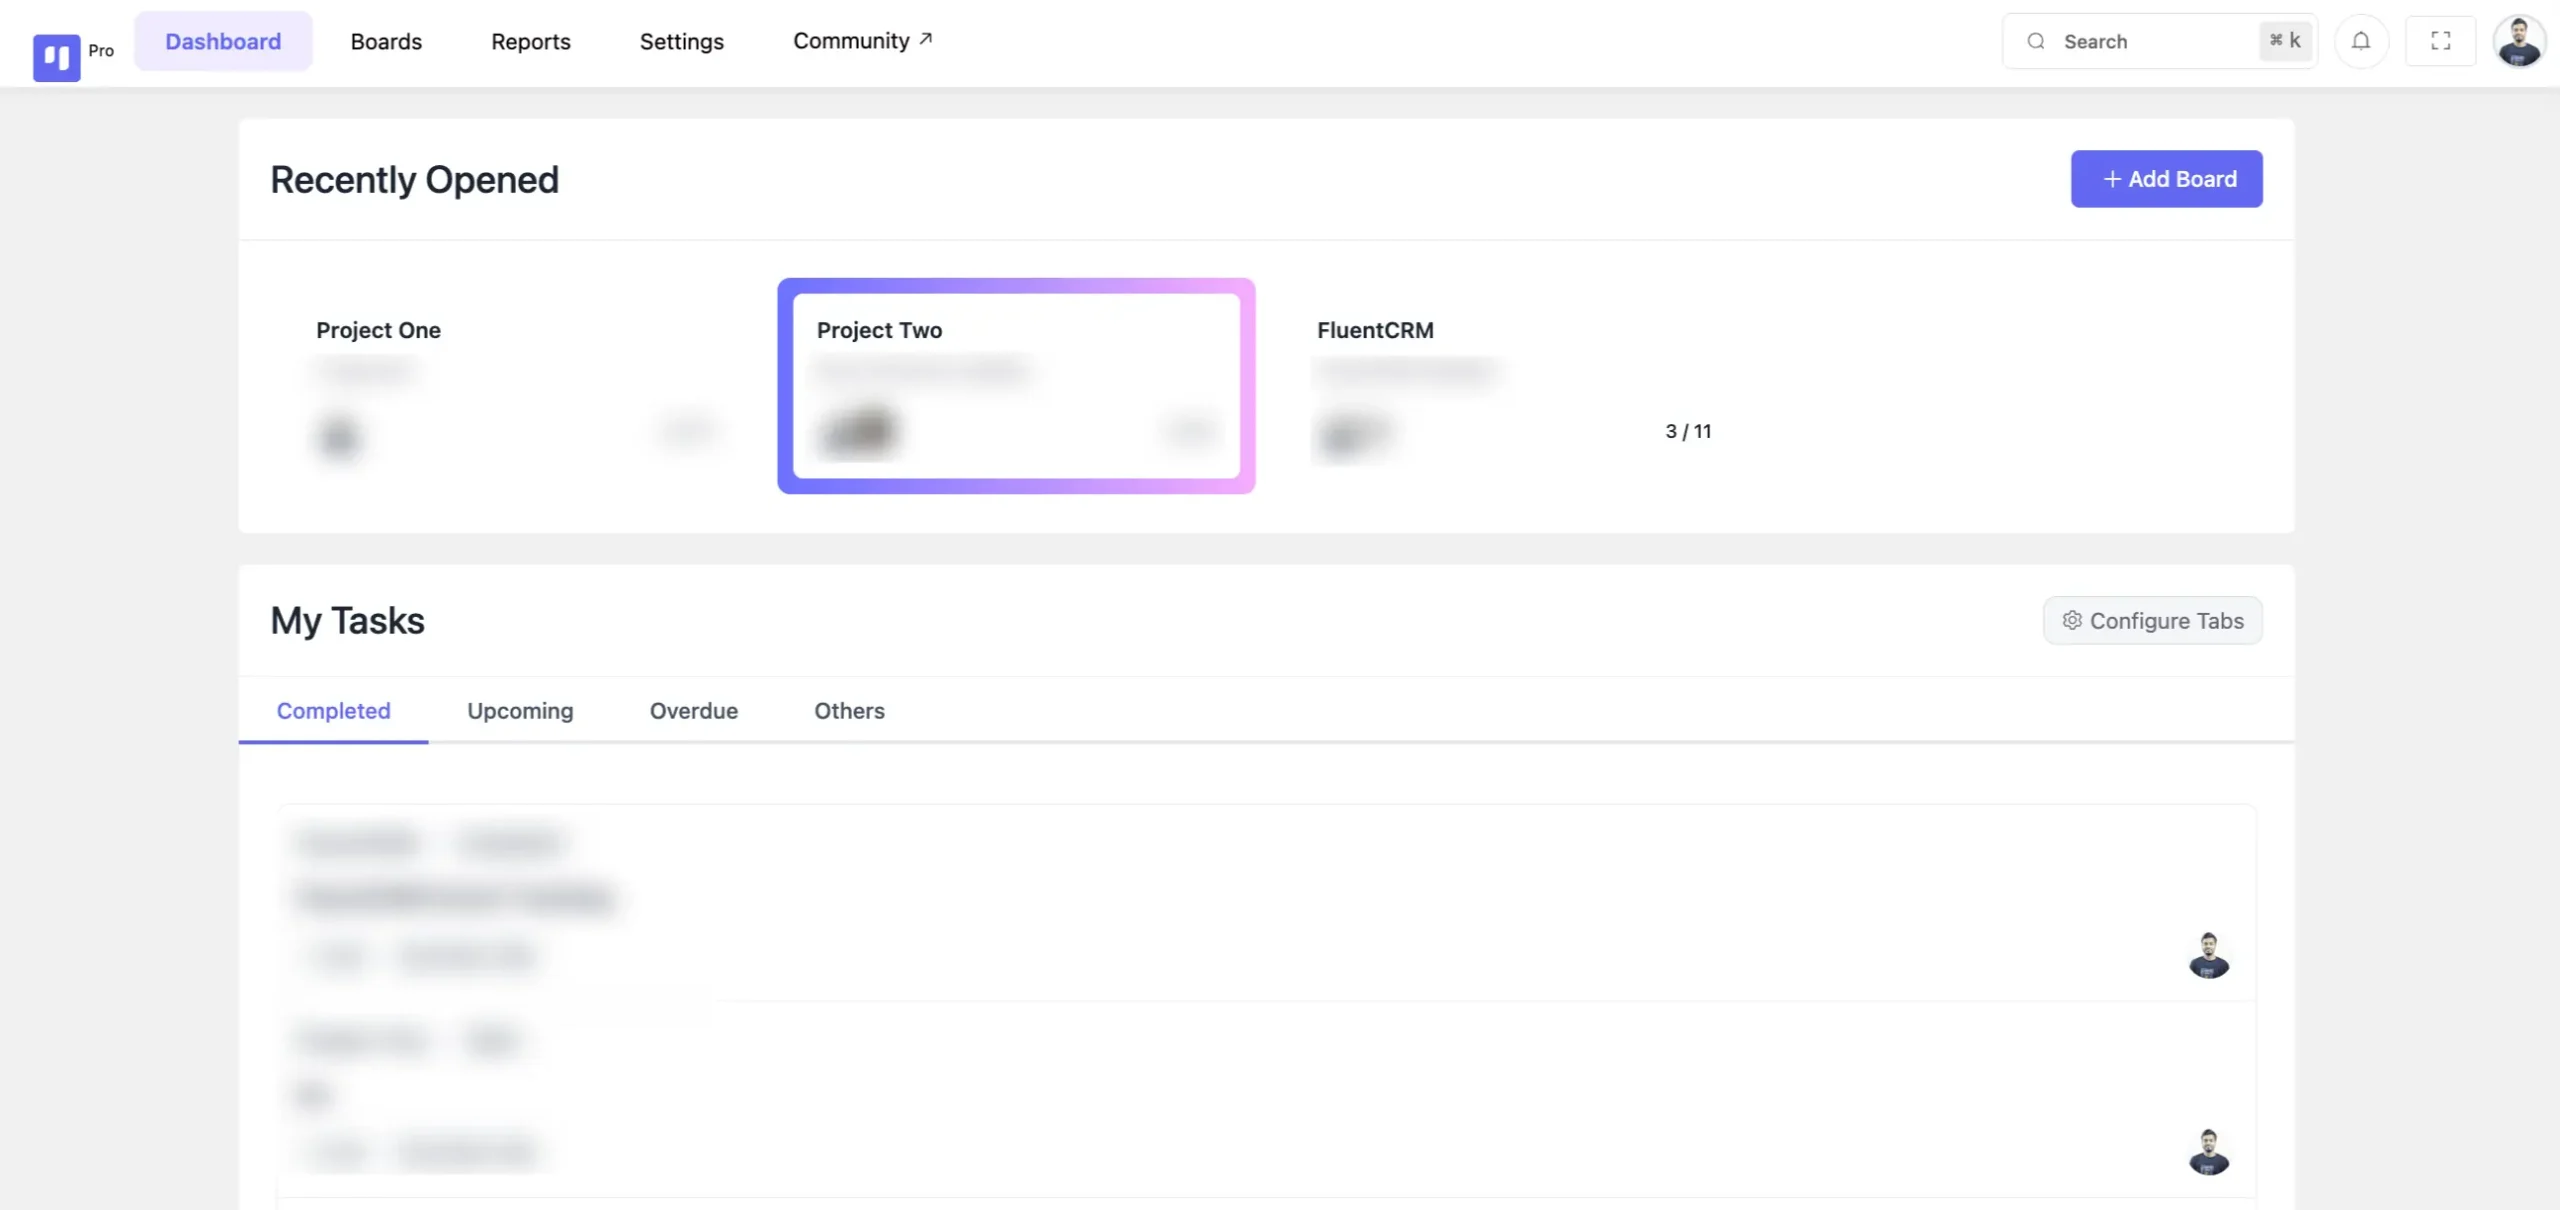
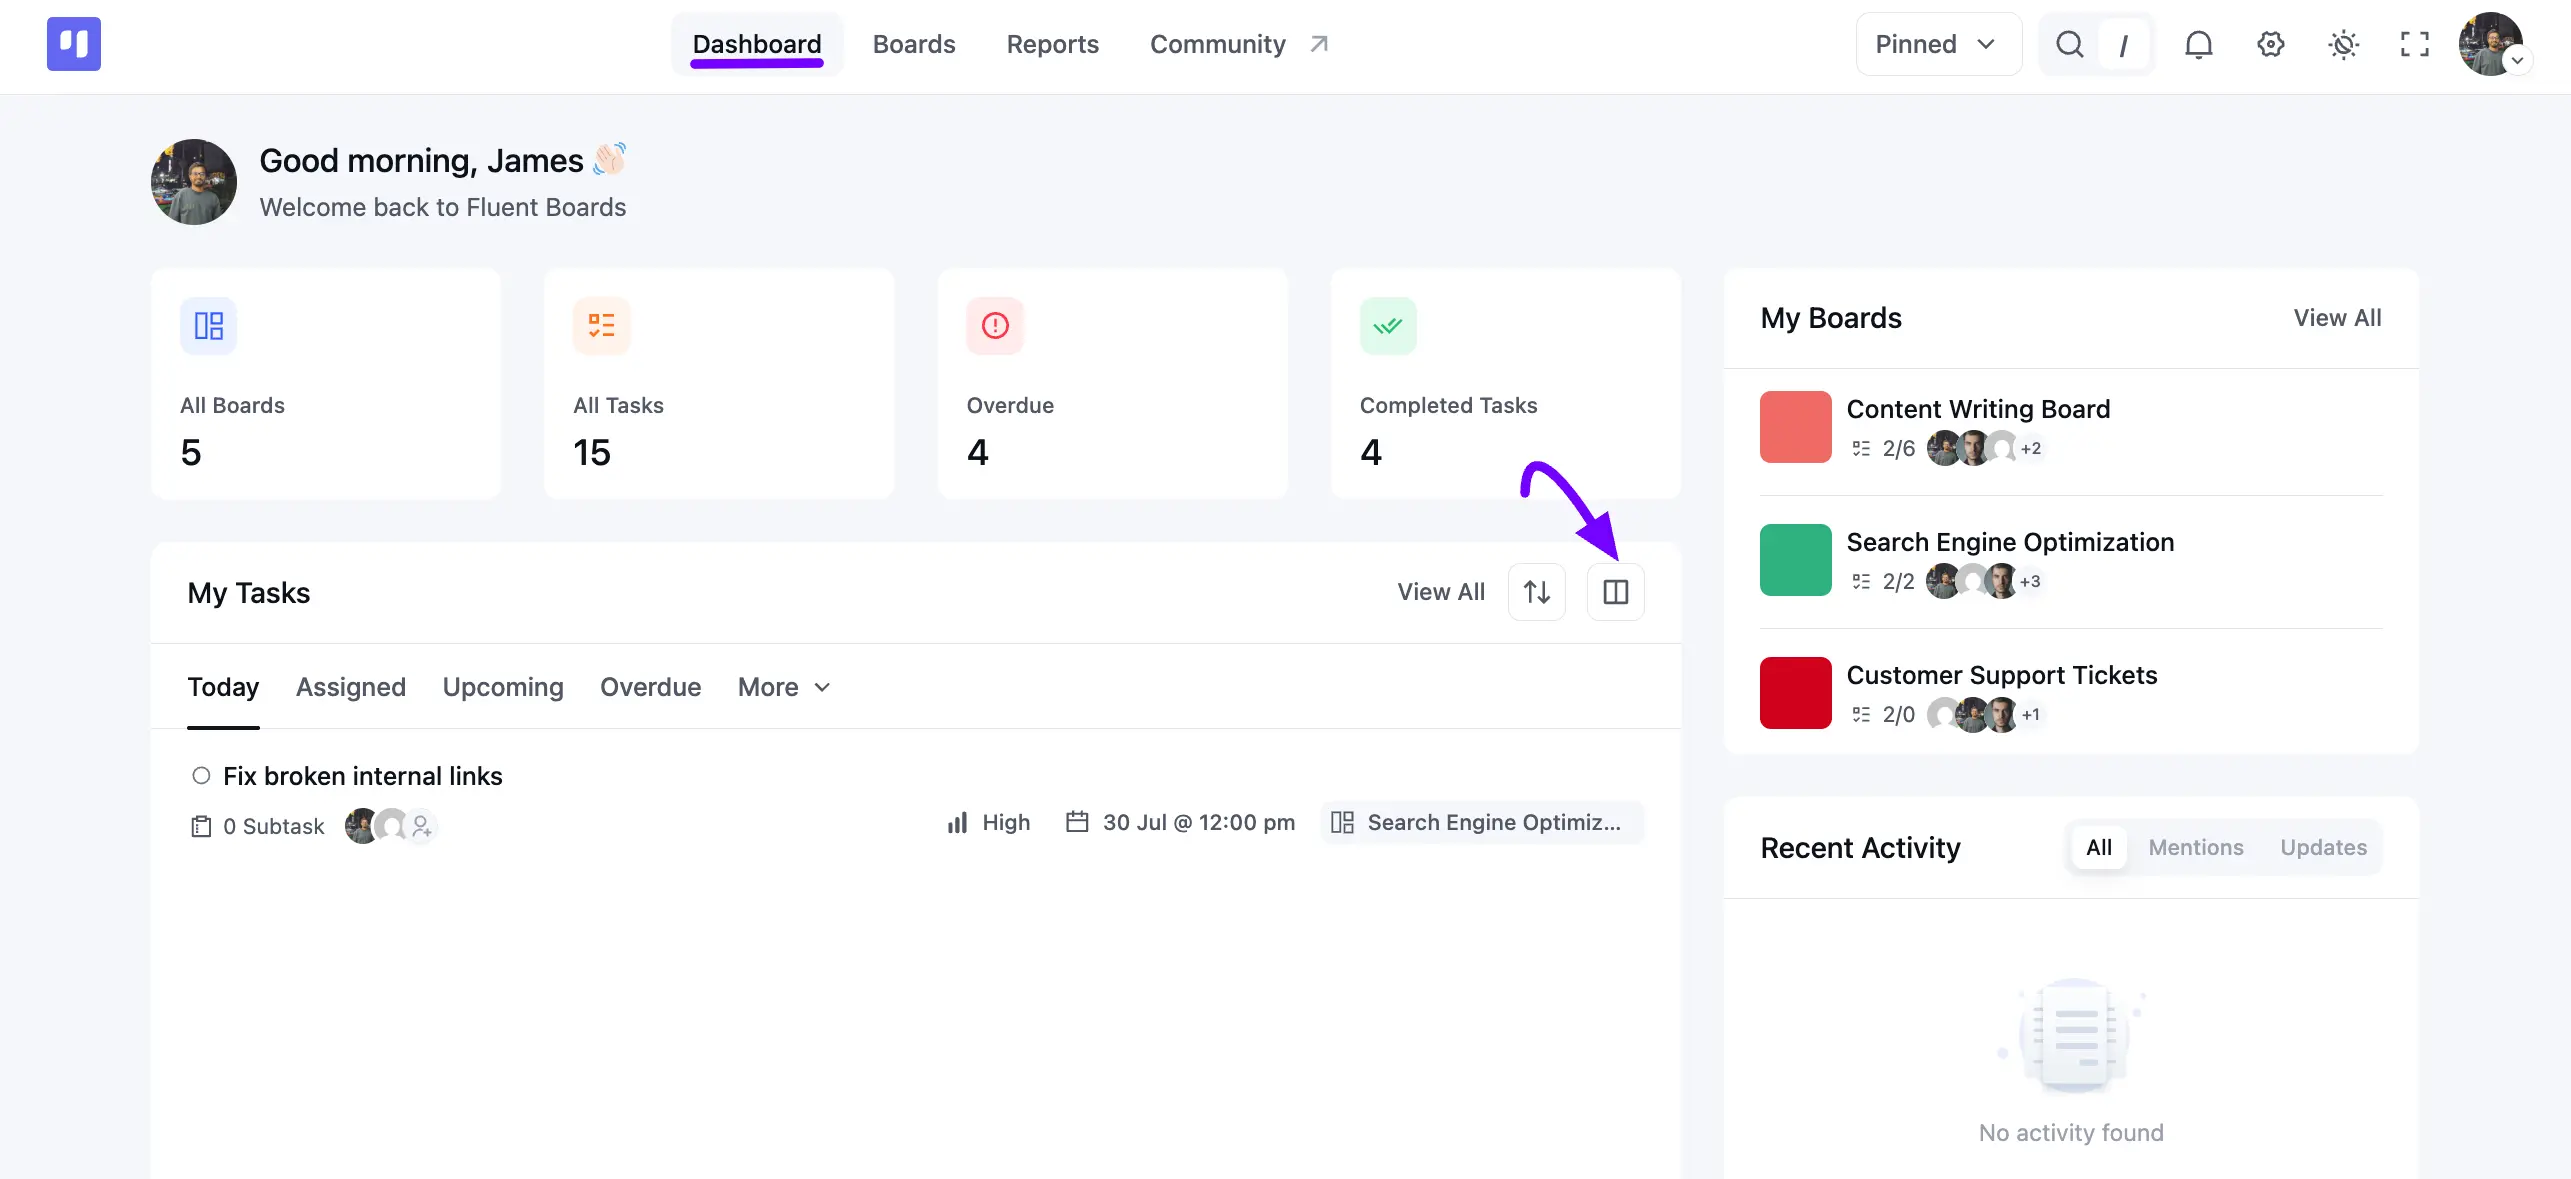
rewrite Dashboard Overview doc

diff --git a/docs/getting-started/fluentboards-dashboard-overview.md b/docs/getting-started/fluentboards-dashboard-overview.md
@@ -4,46 +4,70 @@ Welcome to the FluentBoards Dashboard, designed to streamline your work experien
 
 ![fluent board dashboard](../public/images/getting-started/fluentboards-dashboard-overview/fluent-board-dashboard-scaled.webp)
 
-## Recently Opened
+## Dashboard Stats
 
-In the Recently Opened section of your dashboard, you'll find quick access to the boards you've recently interacted with. Simply click on any of the listed boards to navigate directly to them.
+Right at the top of your Dashboard, you'll find four quick stats that give you an instant read on how your work is progressing across every board.
 
-Additionally, the option to create a new board is conveniently available with the **+Add Board** button.
+**All Boards**: Shows the total number of boards you're a part of.
 
-![recently opened](../public/images/getting-started/fluentboards-dashboard-overview/Recently-opened.webp)
+**All Tasks**: Shows the total number of tasks across your boards.
+
+**Overdue**: Shows how many of your tasks have passed their due date.
+
+**Completed Tasks**: Shows how many of your tasks you've marked as completed.
+
+## My Boards
+
+Here you will see the **My Boards** panel on the right side of your Dashboard. Each board shows its task progress along with the profile pictures of its members.
+
+Simply click on a board to open it directly, or click **View All** to see every board you're part of.
+
+## Recent Activity
+
+Below **My Boards**, the **Recent Activity** panel keeps you updated on what's happening across your boards. Use the **All**, **Mentions**, and **Updates** tabs to filter what you see here.
 
 ## My Tasks
 
-The My Tasks section is structured to optimize your user experience, categorized into three segments:
+The **My Tasks** section is structured to optimize your user experience, categorized into several segments. You'll find **Today**, **Assigned**, **Upcoming**, and **Overdue** as tabs, with more options available under the **More** dropdown:
 
-**Upcoming Boards:** Stay ahead of your tasks with a clear view of upcoming deadlines. Tasks are organized based on their scheduled dates, presenting essential details such as Board Name, Stage, Task Title, Priority, Date, and Time.
-
-**Overdue:** Address overdue tasks efficiently by accessing them directly from this section. Task cards display vital information including Board Name, Stage, Task Title, Priority, Date, and Time, ensuring prompt action to complete pending tasks.
-
-**Completed**: This is where all tasks marked as completed will be displayed for your review.
-
-**Others**: This section displays tasks that have no status updates and have passed their deadlines. These overdue or unaddressed tasks will be shown here.
+**Today**: Shows tasks that are due today.
 
 **Assigned**: Shows tasks that have been assigned to you.
 
+**Upcoming**: Shows tasks with upcoming due dates, so you can stay ahead of deadlines.
+
+**Overdue**: Shows tasks that have passed their due date, so you can take prompt action.
+
 **Mentioned**: Shows tasks where you've been mentioned in a comment.
 
-![my task all 033](../public/images/getting-started/fluentboards-dashboard-overview/My-Task-all-033-scaled.webp)
+**Completed**: Shows all tasks that have been marked as completed.
+
+**Others**: Shows tasks that don't have a due date set.
+
+Each task displays its subtask count, assignees, **Priority**, due date and time, and the board it belongs to.
+
+Click on **View All** to open the full **My Tasks** page, where you can also select a specific board and switch between list and grid layouts.
+
+![my task all 033](../public/images/getting-started/fluentboards-dashboard-overview/My-Task-all-033-scaled-2.webp)
+
+### Sort Your Tasks
+
+Click on the **Sort** icon next to **View All** to arrange your tasks by **Created Date**, **Priority**, **Title**, or **Due Date**, in **Ascending** or **Descending** order.
+
+![Sort By](../public/images/getting-started/fluentboards-dashboard-overview/sort-4.webp)
 
 ## Configure Tab in My Dashboard
 
-FluentBoards allows you to control what task types are visible in your **My Task Dashboard**, helping you focus on the tasks that matter most to you.
+FluentBoards allows you to control what task types are visible in your **My Tasks** section, helping you focus on the tasks that matter most to you.
 
 ### Access the Configure Tab
 
-To get started, navigate to your **My Task Dashboard**. Click on the **Configure Tab** button located at the top of the dashboard.
-
-![configure tab 01](../public/images/getting-started/fluentboards-dashboard-overview/configure-tab-01-scaled.webp)
+To get started, click on the layout icon next to the **Sort** icon in the **My Tasks** section. This opens the **Configure Task Tabs** pop-up.
 
 ### **Show or Hide Task Types**
 
-A pop-up will display all available task types. Use the **Checkboxes** to choose which task types you want to **display** or **hide** from your dashboard.Now, click the **Save** button to apply your changes.
+Here you will see a checkbox list of all available tabs: **Today**, **Assigned**, **Upcoming**, **Overdue**, **Mentioned**, **Completed**, and **Others**. Use the **Checkboxes** to choose which tabs to **display** or **hide**, or simply drag a tab to reorder it. Now, click the **Save** button to apply your changes.
 
-![configure tasks tab 02](../public/images/getting-started/fluentboards-dashboard-overview/configure-tasks-tab-02-scaled.webp)
+![configure tasks tab 02](../public/images/getting-started/fluentboards-dashboard-overview/configure-tasks-tab-02-scaled-3.webp)
 
 This concludes the overview of your FluentBoards Dashboard. For any further inquiries or assistance, feel free to reach out to our [support](https://wpmanageninja.com/support-tickets/?utm_source=wpmn&utm_medium=home&utm_campaign=site#/){:target="_blank"}.
